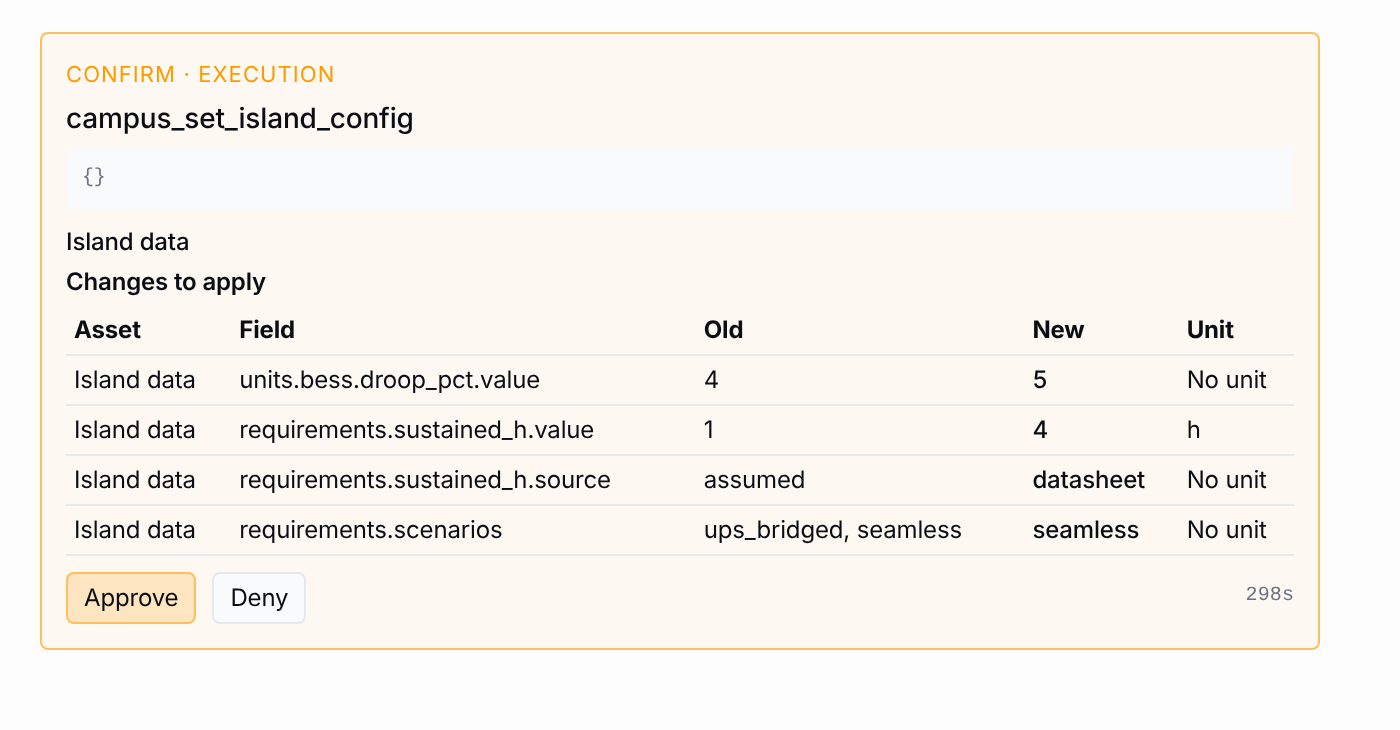
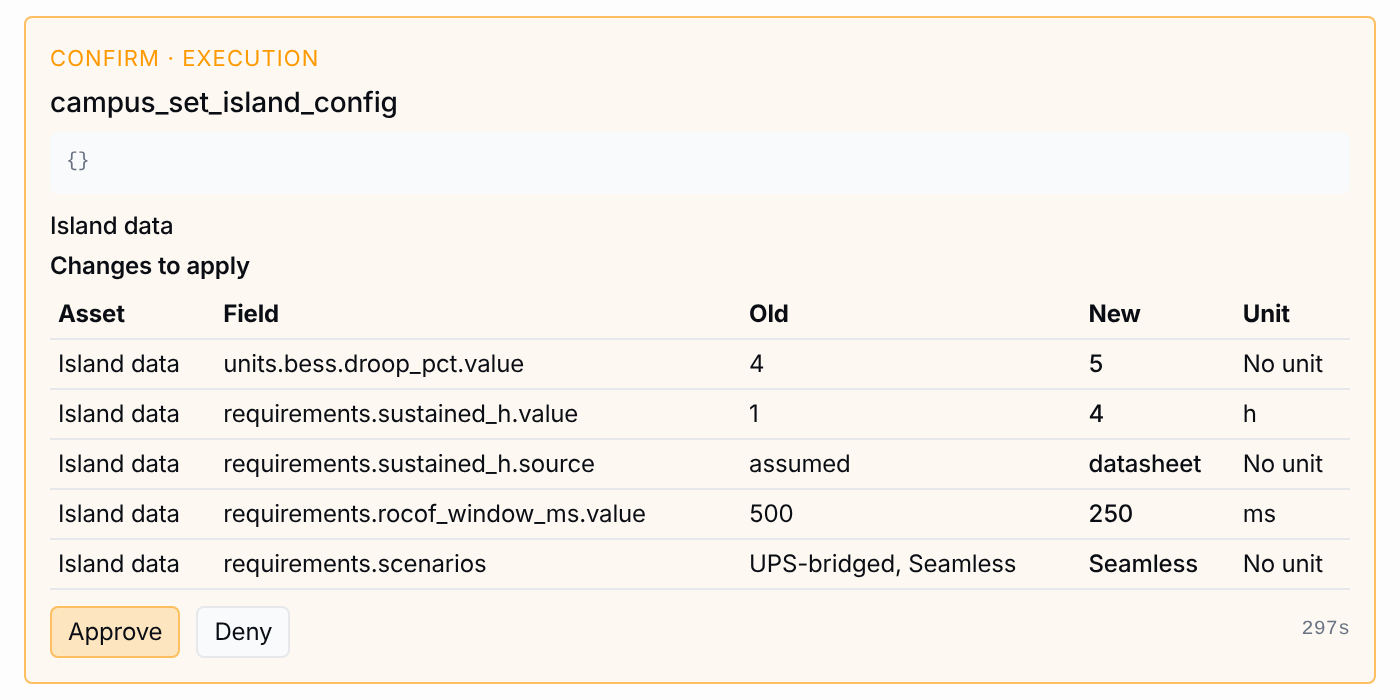
pr795: refresh island-config shots (widened labels, scenario names)
Claude-Session: https://claude.ai/code/session_01G7qCujxi2xmskMag7xXa9M

diff --git a/pr795/README.md b/pr795/README.md
@@ -1,4 +1,4 @@
-Shots for #795 (Q3-CARDS-1 settings adapters, slice 2), head e1d87ecc7750ec62e46af78432a958ed96dced91 or later.
+Shots for #795 (Q3-CARDS-1 settings adapters, slice 2), head 90873a415ee43c86b3af8ce37792ac48a693e91a or later.
 Produced without a chat model: the real `ConfirmationCard` frontend component, rendered by Vite and Playwright
 chromium, fed the real card JSON that `harness.edit_card.preview(tool, args)` returns from the backend (a throwaway
 pytest run modelled on tests/test_edit_card_{site,reports,library,campus}.py; the JSON is not committed). Pairs are
@@ -8,6 +8,5 @@ Shapes:
 - 01 `set_finance_inputs`: two fields changed (Escalation capex, WACC).
 - 02 `set_report_mapping`: untagged template plan (heading actions, renamed text, section mapping).
 - 03 `put_library_item`: tariff new version (v1 to v2, jurisdiction, description).
-- 04 `campus_set_island_config`: four island settings changed. Expert is rendered 700 px wide; at 460 px the
-  Unit column is cut off.
+- 04 `campus_set_island_config`: five rows changed (Droop pct, Sustained ride-through and its source, Rate-of-change window in ms, Scenarios as UPS-bridged, Seamless to Seamless). Expert is rendered 700 px wide so the Unit column is not clipped; Guided is 460 px.
 - 05 `set_finance_inputs` first save: capped card, 12 rows plus the "10 more finance inputs change." note.
